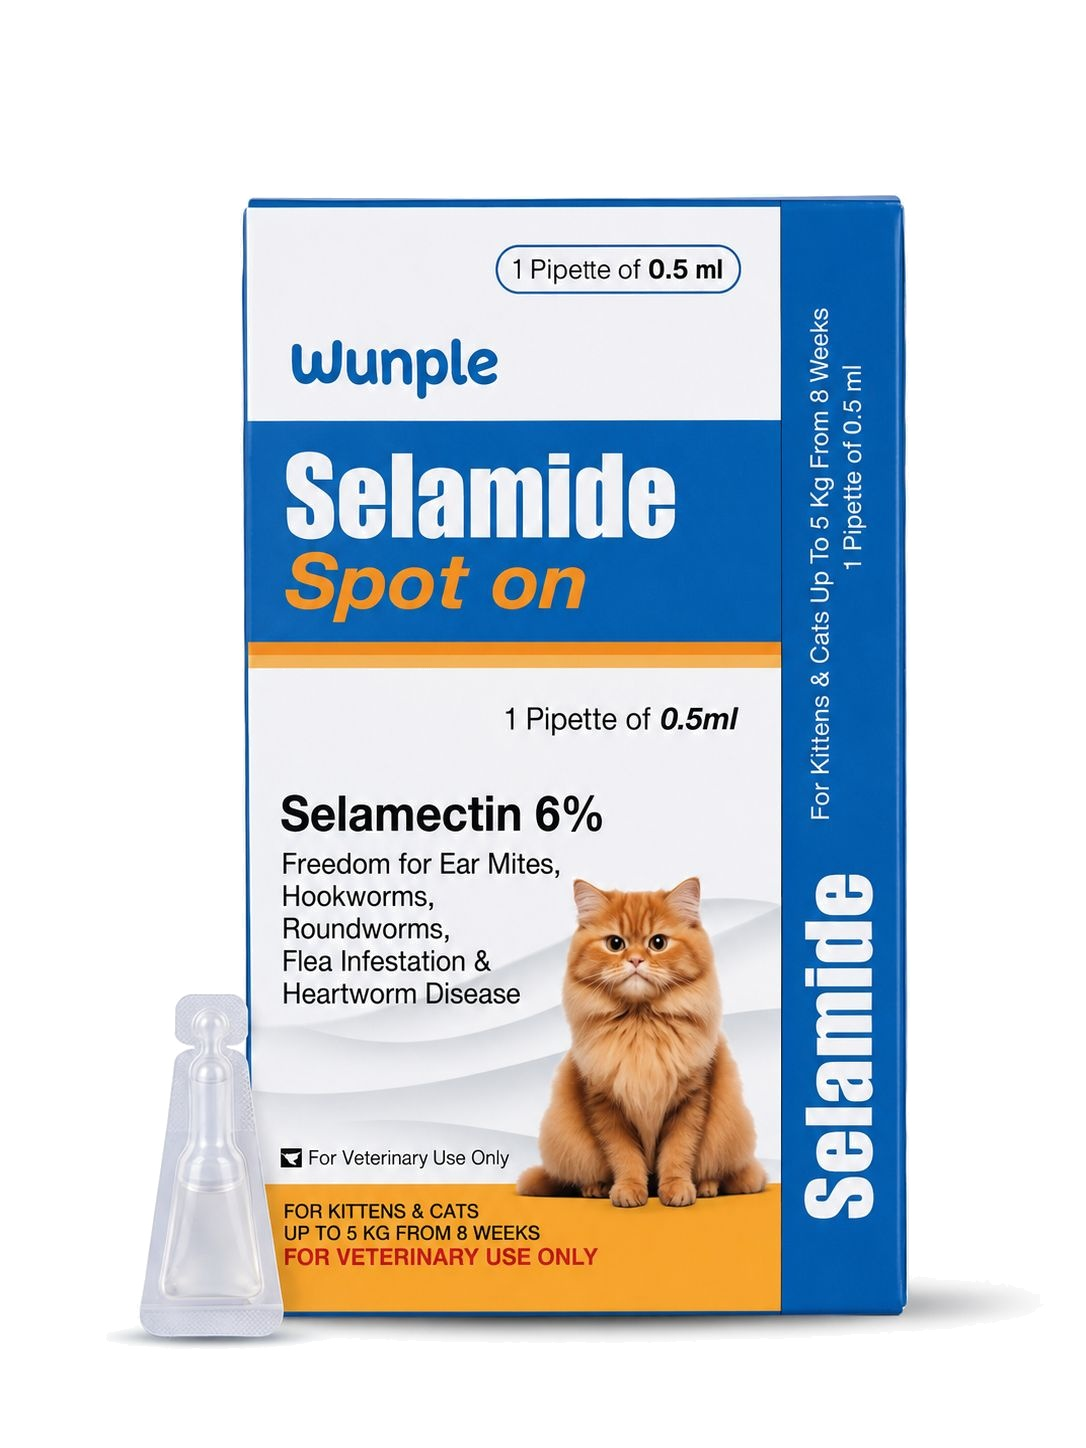
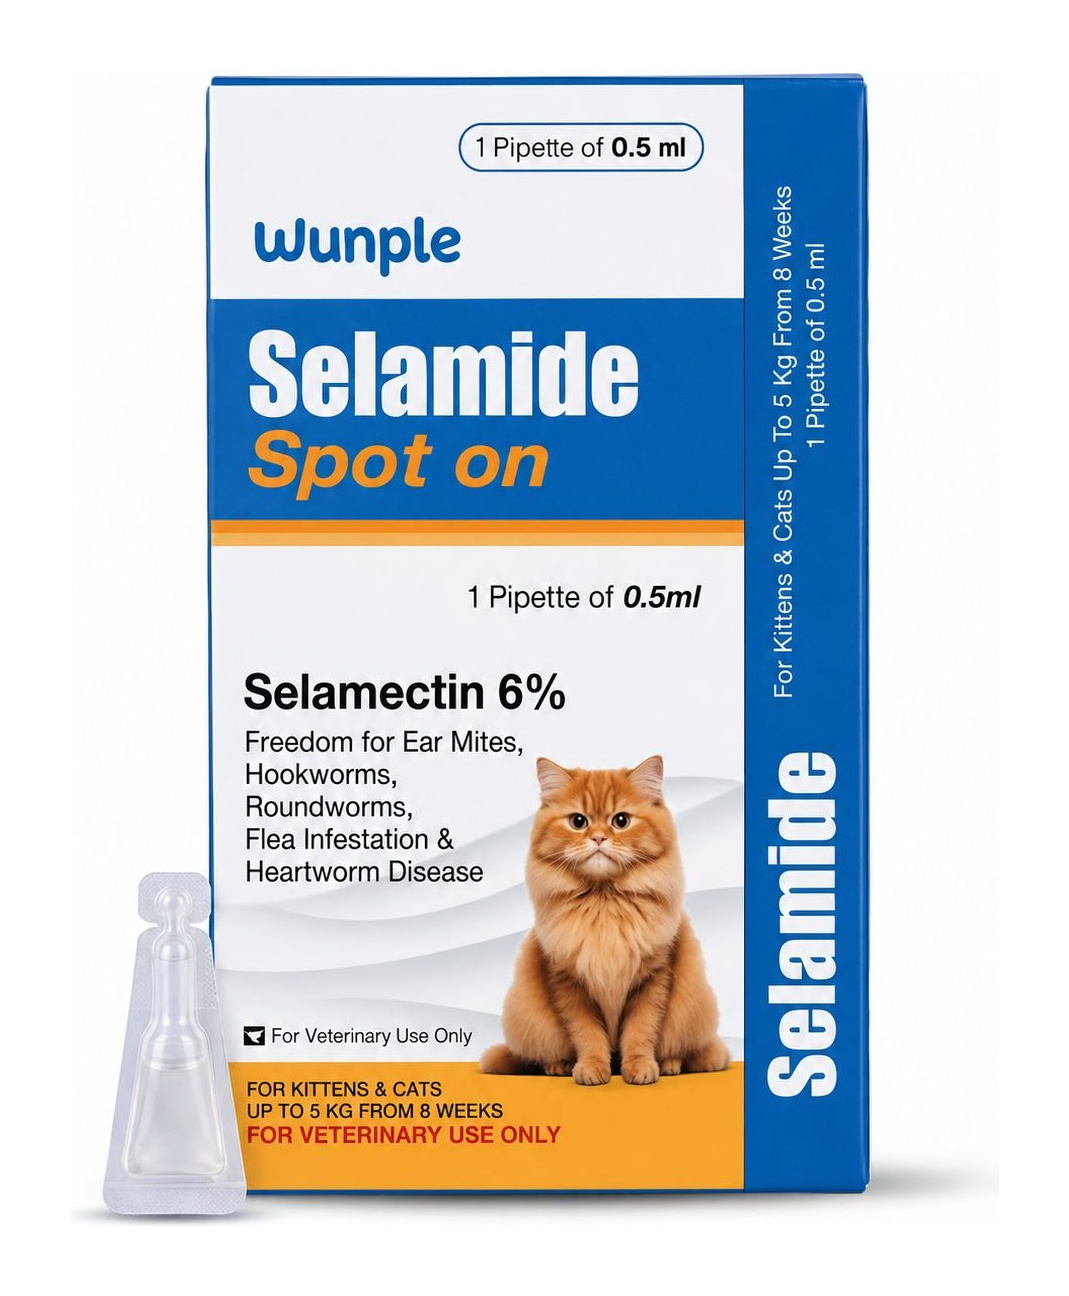
Fix Selamide crop on desktop and prevent title overlap on mobile with cache-busted v2 assets

Changed region(s): [[0.0926, 0.0309, 0.8952, 0.9568]]

diff --git a/app/globals.css b/app/globals.css
@@ -527,8 +527,9 @@ img {
   display: flex;
   align-items: center;
   justify-content: center;
-  padding: 24px;
+  padding: 24px 20px;
   border-bottom: 1px solid #f3f5f8;
+  overflow: hidden;
 }
 
 .product-badge {
@@ -579,6 +580,14 @@ img {
   color: #ef4444;
 }
 
+.product-visual-link {
+  display: flex;
+  align-items: center;
+  justify-content: center;
+  width: 100%;
+  height: 100%;
+}
+
 .product-visual {
   width: 100%;
   height: 100%;
@@ -588,8 +597,11 @@ img {
 }
 
 .product-img {
-  max-height: 220px;
+  max-height: 205px;
+  max-width: 100%;
   width: auto;
+  height: auto;
+  object-fit: contain;
   transition: transform 0.4s ease;
 }
 
@@ -2317,6 +2329,12 @@ img {
   /* ---- Product Cards ---- */
   .product-image-box {
     height: 220px;
+    padding: 20px 16px;
+    overflow: hidden;
+  }
+
+  .product-img {
+    max-height: 165px;
   }
 
   .product-title {
@@ -2540,7 +2558,32 @@ img {
 
   .product-image-box {
     height: 175px;
-    padding: 18px 14px 10px;
+    padding: 16px 12px 8px;
+    overflow: hidden;
+  }
+
+  .product-visual-link {
+    display: flex;
+    align-items: center;
+    justify-content: center;
+    width: 100%;
+    height: 100%;
+  }
+
+  .product-visual {
+    width: 100%;
+    height: 100%;
+    display: flex;
+    align-items: center;
+    justify-content: center;
+  }
+
+  .product-img {
+    max-height: 132px;
+    max-width: 90%;
+    width: auto;
+    height: auto;
+    object-fit: contain;
   }
 
   .product-badge {

diff --git a/data/products.ts b/data/products.ts
@@ -60,7 +60,7 @@ export const ALL_PRODUCTS: Product[] = [
     id: "selamide-spot-on",
     name: "Selamide Spot On",
     category: "SPOT ON CARE",
-    image: "/images/product-selamide-box.jpg",
+    image: "/images/product-selamide-v2.png",
     bannerImage: "/images/banner-selamide.jpg",
     amazonUrl: "https://amzn.in/d/0iZx5H5E",
     subtitle: "Selamectin 6% focused parasite care against fleas, mites & worms for cats.",
